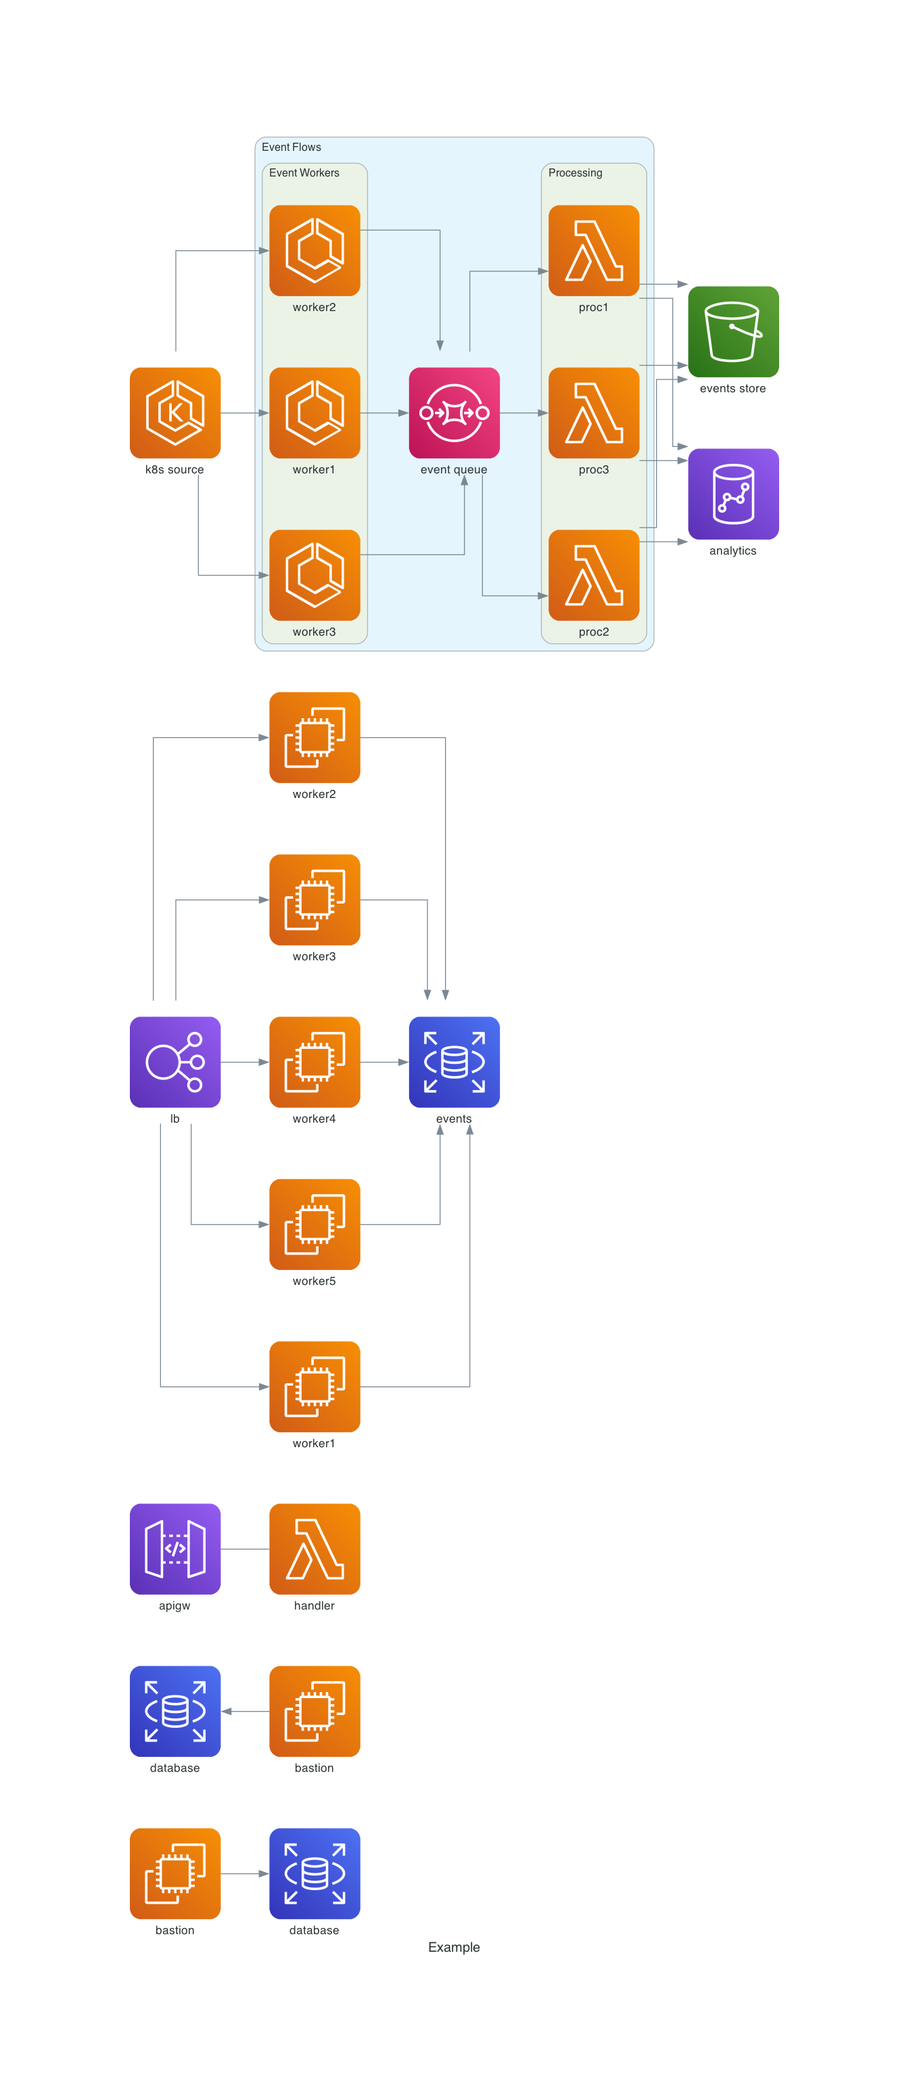
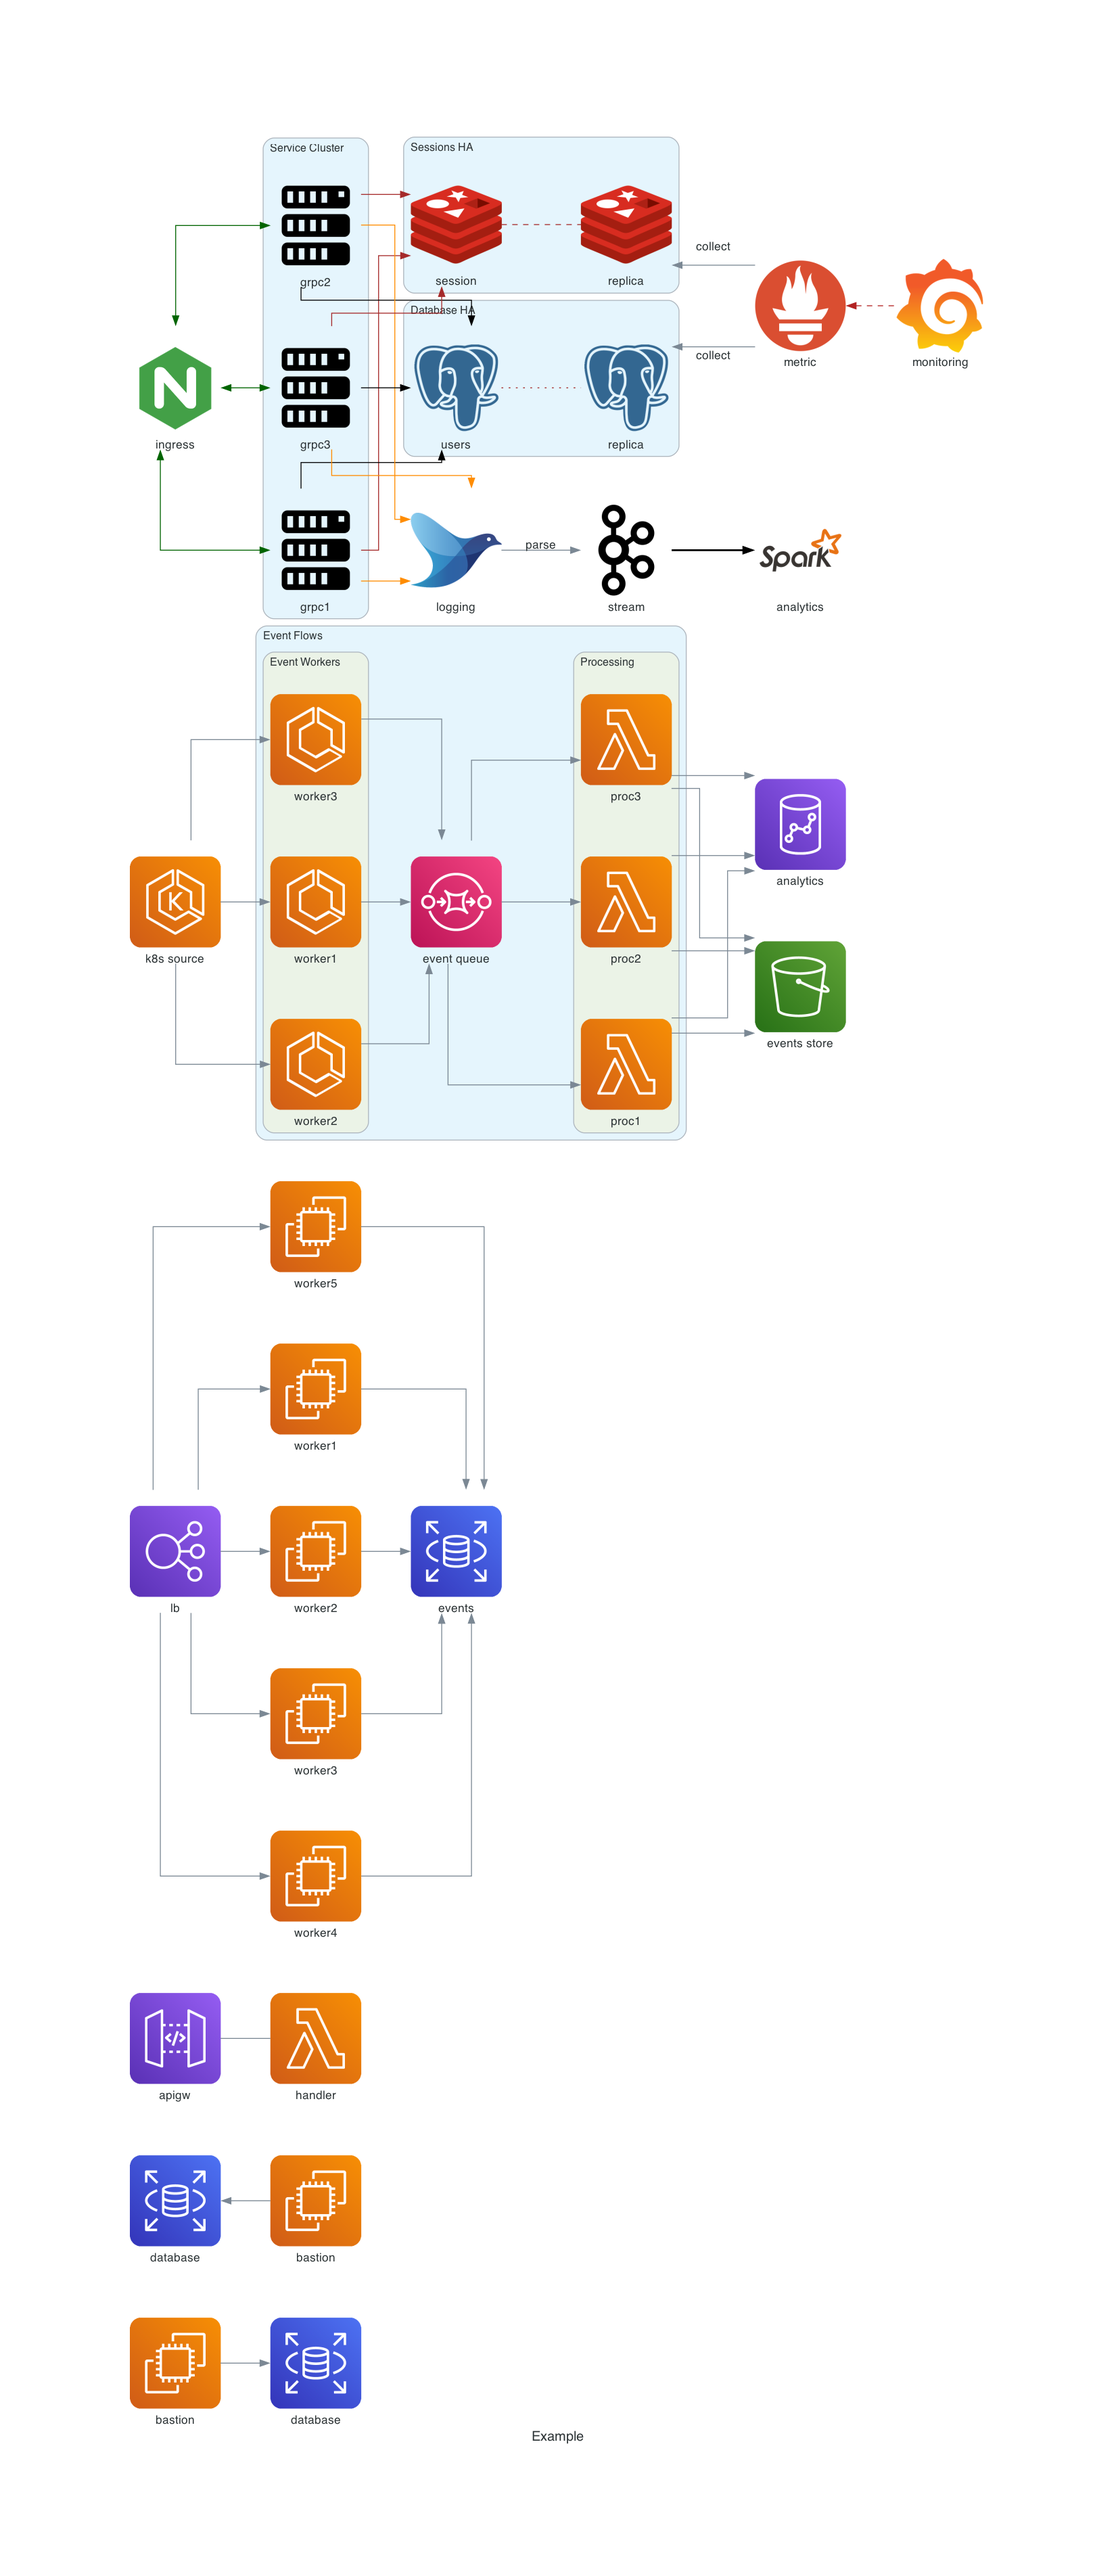
Add edge example

Changed region(s): [[0.0938, 0.0311, 0.875, 0.9644]]

diff --git a/example.py b/example.py
@@ -1,11 +1,21 @@
-from diagrams import Diagram, Cluster
+# https://diagrams.mingrammer.com/docs/guides/diagram
+from diagrams import Diagram, Cluster, Edge
+
+from diagrams.onprem.queue import Kafka
+from diagrams.onprem.network import Nginx
+from diagrams.onprem.monitoring import Grafana, Prometheus
+from diagrams.onprem.aggregator import Fluentd
+from diagrams.onprem.inmemory import Redis
+from diagrams.onprem.database import PostgreSQL
+from diagrams.onprem.compute import Server
+from diagrams.onprem.analytics import Spark
 from diagrams.aws.compute import EC2, Lambda, EKS, ECS
 from diagrams.aws.database import RDS
-from diagrams.aws.network import VPC, APIGateway, ELB, NATGateway
-from diagrams.aws.security import SecretsManager
+from diagrams.aws.network import APIGateway, ELB
 from diagrams.aws.storage import S3
 from diagrams.aws.integration import SQS
 from diagrams.aws.analytics import Redshift
+
 
 # https://www.graphviz.org/doc/info/attrs.html
 graph_attr = {
@@ -49,3 +59,46 @@ with Diagram("Example", show=True, outformat="png", direction="LR", graph_attr=g
     source >> workers >> queue >> handlers
     handlers >> store
     handlers >> dw
+
+    # Edges with labels, colors, and styles
+    ingress = Nginx("ingress")
+
+    metrics = Prometheus("metric")
+    metrics << Edge(color="firebrick", style="dashed") << Grafana("monitoring")
+
+    with Cluster("Service Cluster"):
+        grpcsvc = [
+            Server("grpc1"),
+            Server("grpc2"),
+            Server("grpc3")]
+
+    with Cluster("Sessions HA"):
+        primary = Redis("session")
+        primary \
+            - Edge(color="brown", style="dashed") \
+            - Redis("replica") \
+            << Edge(label="collect") \
+            << metrics
+        grpcsvc >> Edge(color="brown") >> primary
+
+    with Cluster("Database HA"):
+        primary = PostgreSQL("users")
+        primary \
+            - Edge(color="brown", style="dotted") \
+            - PostgreSQL("replica") \
+            << Edge(label="collect") \
+            << metrics
+        grpcsvc >> Edge(color="black") >> primary
+
+    aggregator = Fluentd("logging")
+    aggregator \
+        >> Edge(label="parse") \
+        >> Kafka("stream") \
+        >> Edge(color="black", style="bold") \
+        >> Spark("analytics")
+
+    ingress \
+        >> Edge(color="darkgreen") \
+        << grpcsvc \
+        >> Edge(color="darkorange") \
+        >> aggregator

diff --git a/dbaccess.py b/dbaccess.py
@@ -1,4 +1,4 @@
-from diagrams import Diagram, Cluster
+from diagrams import Diagram, Cluster, Edge
 from diagrams.aws.compute import Lambda
 from diagrams.aws.database import RDS
 from diagrams.aws.network import APIGateway, NATGateway
@@ -16,7 +16,7 @@ node_attr = {
 }
 
 # The order of rendered diagrams is the reverse of the declaration order.
-with Diagram("DB access diagram", show=True, outformat="png", direction="LR", graph_attr=graph_attr, node_attr=node_attr):
+with Diagram("DB access diagram", filename="dbaccess", show=True, outformat="png", direction="LR", graph_attr=graph_attr, node_attr=node_attr):
     with Cluster("VPC"):
         with Cluster("Private Subnet"):
             db = RDS("database")
@@ -30,5 +30,6 @@ with Diagram("DB access diagram", show=True, outformat="png", direction="LR", gr
     api = APIGateway("api gateway")
     sm = SecretsManager("secrets manager")
 
-    api - handler - db
-    handler - nat - sm
+    api - Edge(color="black") - handler - \
+        Edge(color="black") - Edge(color="black") - db
+    handler - Edge(color="black") - nat - Edge(color="black") - sm
